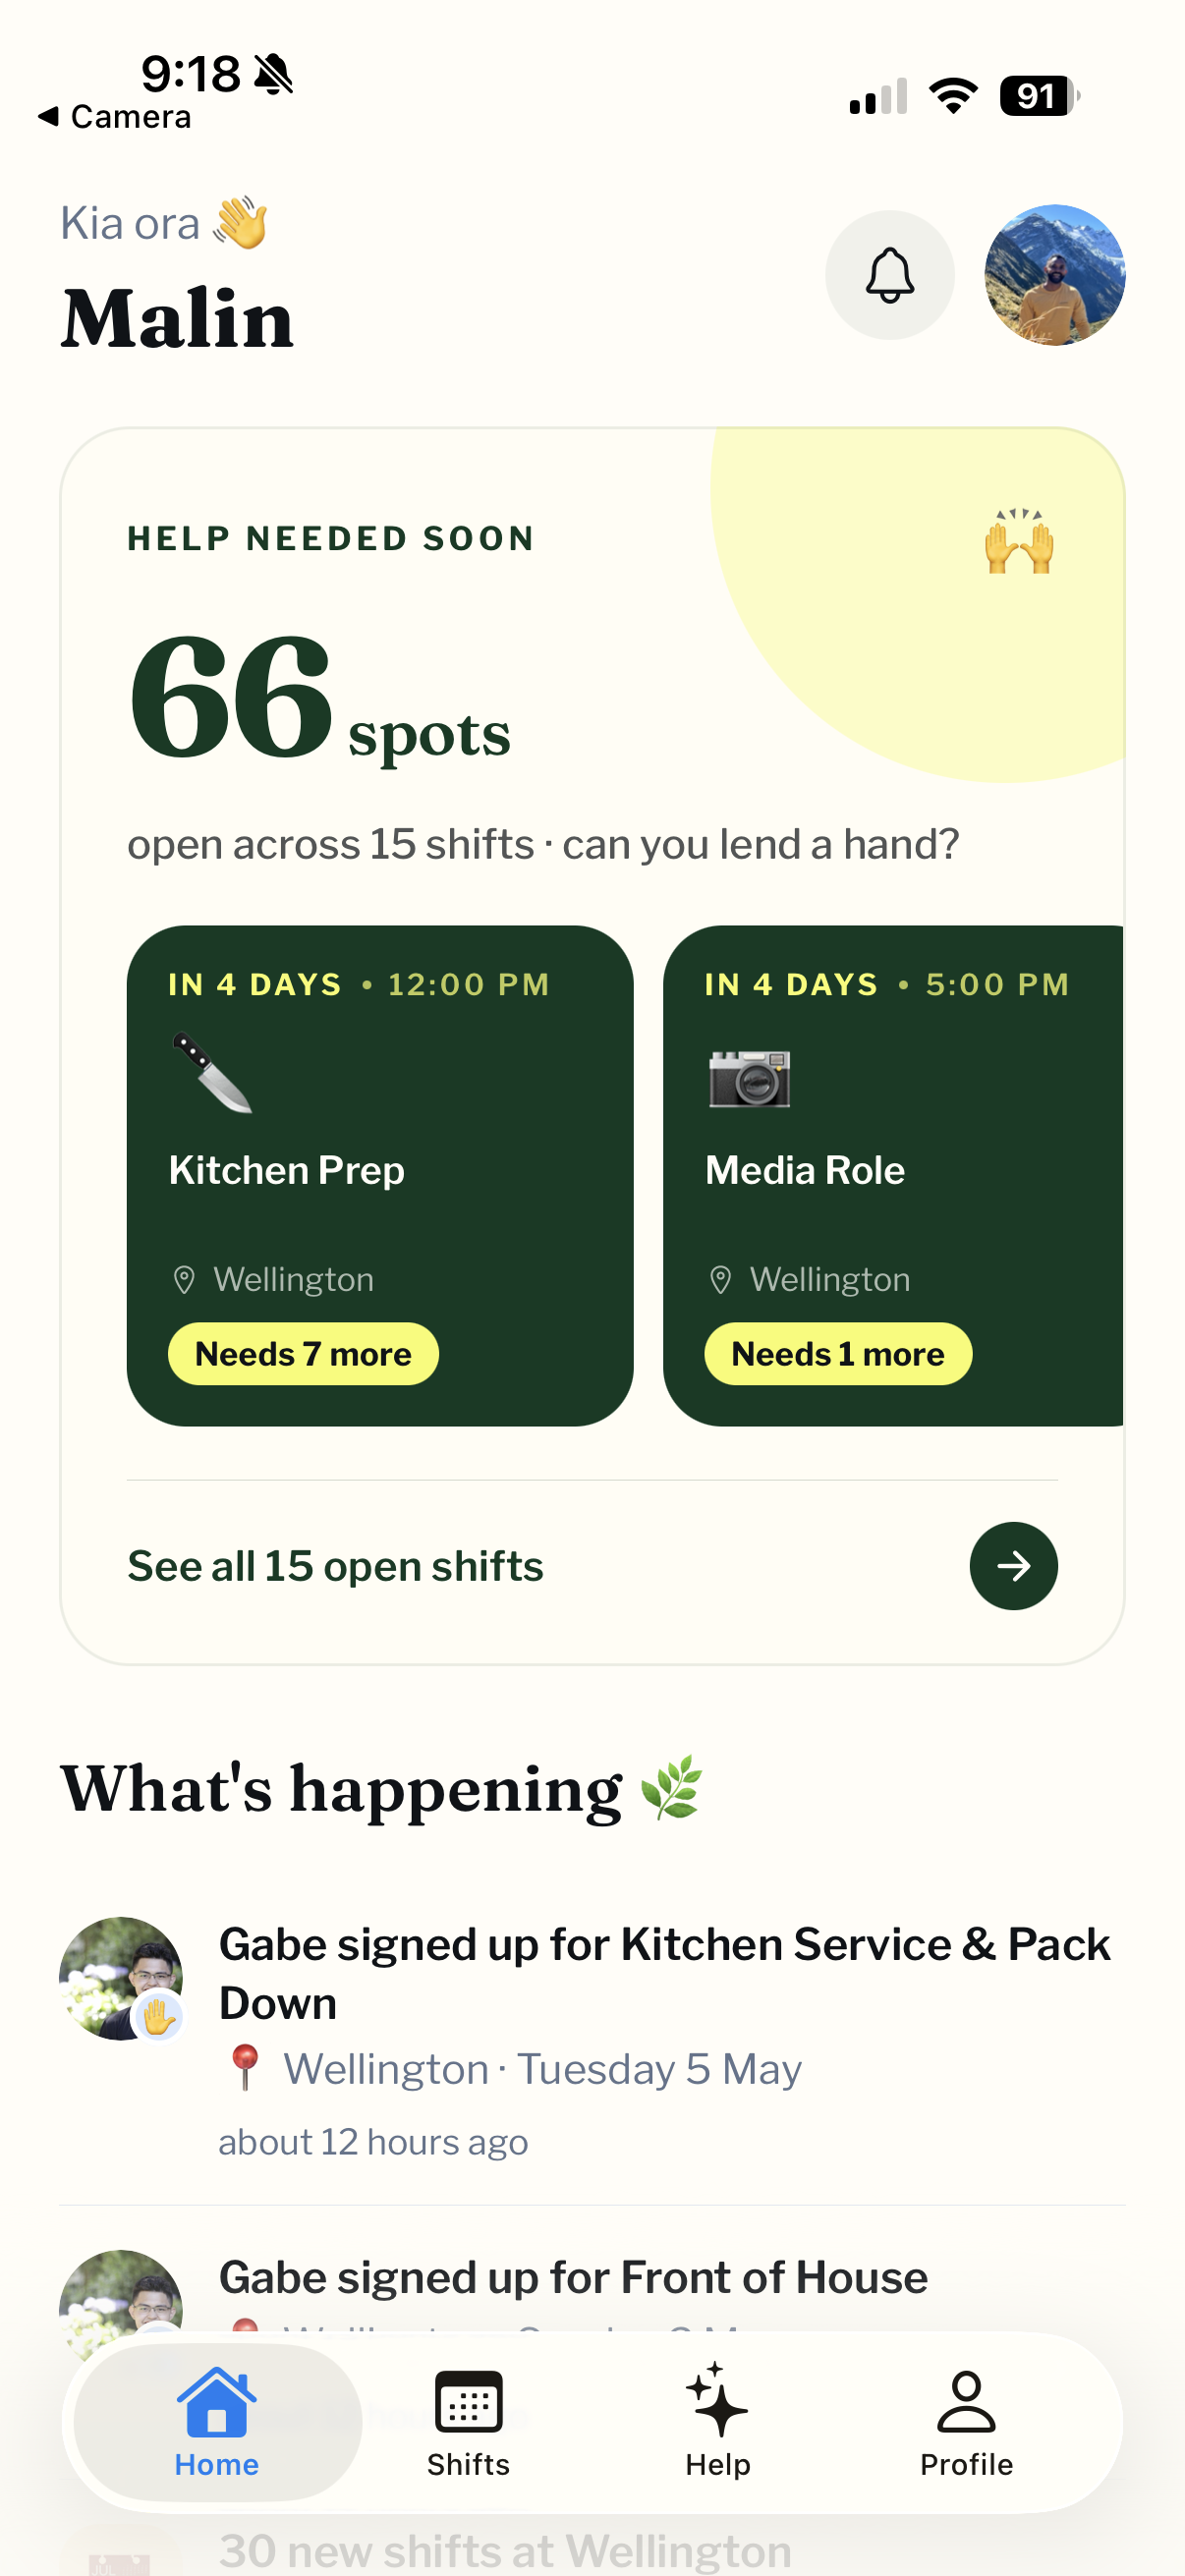
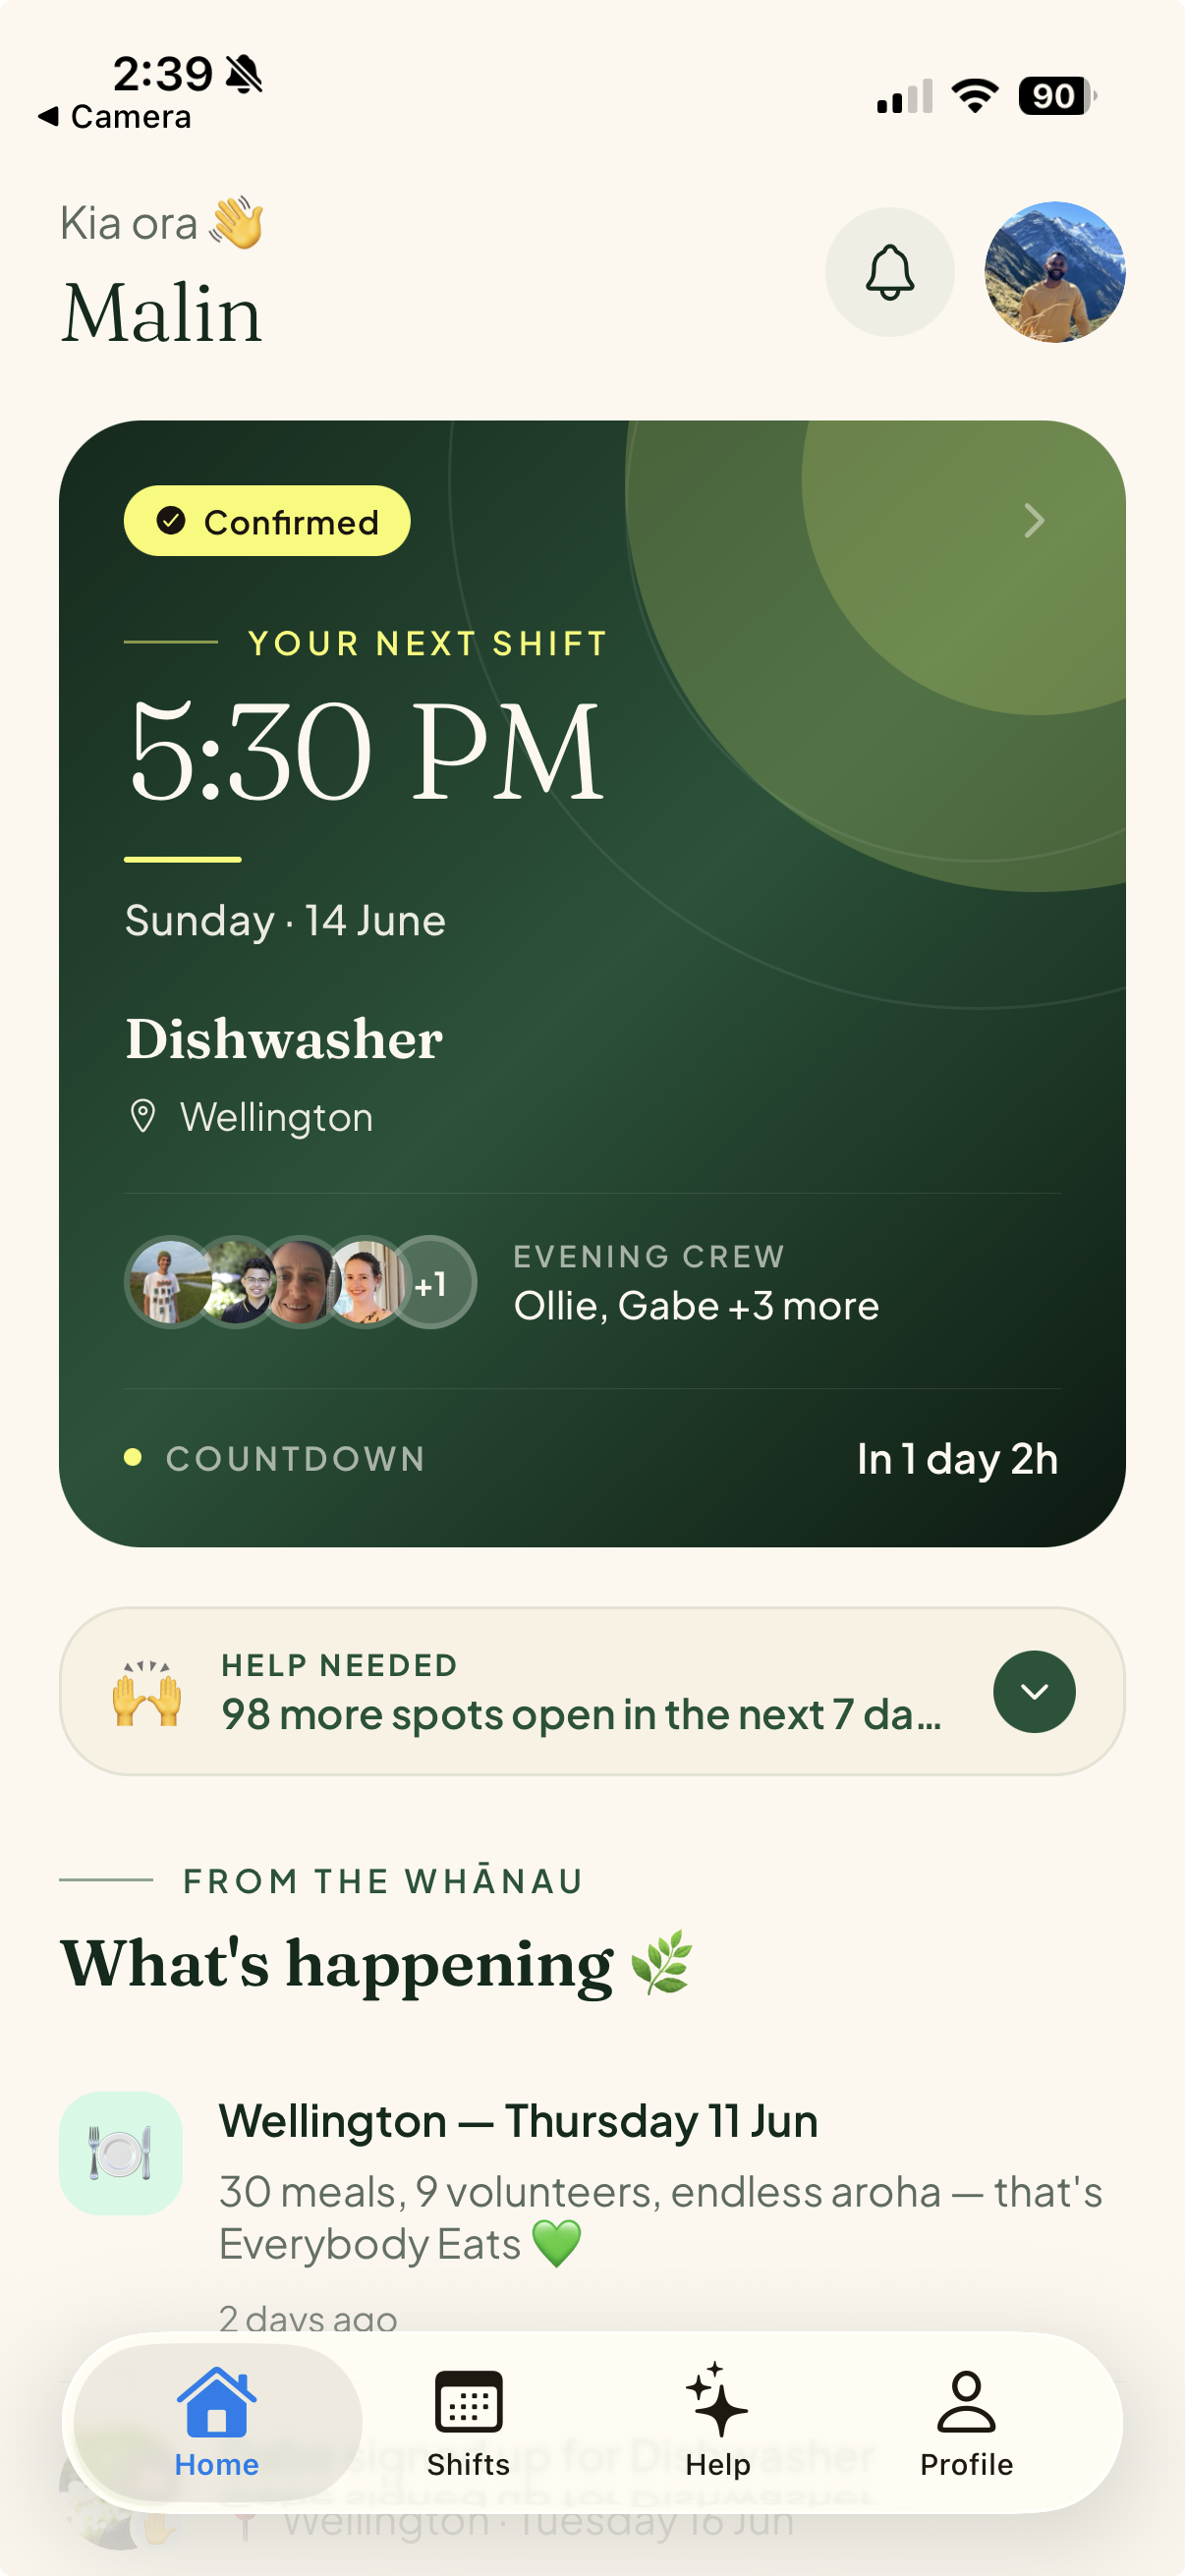
Update EE and Fair Food case-study stats and EE app screenshot
- Everybody Eats: weekly active users 1.2k → 1.5k
- Fair Food NZ: volunteers 300+ → 400+
- Replace Everybody Eats mobile app screenshot with the current home
  screen (next shift + "What's happening" feed) and refine its alt text

diff --git a/src/data/cases.ts b/src/data/cases.ts
@@ -27,7 +27,7 @@ export const CASES: CaseStudy[] = [
       "A booking system, volunteer roster, and donation flow built around their three-course pay-what-feels-right dining model — plus native iOS and Android apps for volunteers to pick up shifts on the move.",
     metrics: [
       { v: "9k+", l: "volunteers" },
-      { v: "1.2k", l: "weekly active users" },
+      { v: "1.5k", l: "weekly active users" },
       { v: "3+", l: "restaurants and pop-ups" },
     ],
     scheme: "warm",
@@ -39,7 +39,7 @@ export const CASES: CaseStudy[] = [
       "The volunteer site Everybody Eats had before the rebuild — a plain events list with little of their own identity",
     phoneImage: "screenshots/everybody-eats-app.png",
     phoneImageAlt:
-      "Everybody Eats volunteer app — open shifts and 'What's happening' feed",
+      "Everybody Eats volunteer app home screen — next confirmed shift, open spots needed, and the 'What's happening' feed",
   },
   {
     name: "Fair Food NZ",
@@ -47,7 +47,7 @@ export const CASES: CaseStudy[] = [
     blurb:
       "A volunteer site and shift booking system for the crew who sort, cook, and share rescued kai in Avondale every day — browse open shifts solo, or sign up a whole team at once.",
     metrics: [
-      { v: "300+", l: "volunteers" },
+      { v: "400+", l: "volunteers" },
       { v: "2,400 kg", l: "rescued kai a day" },
       { v: "Est. 2011", l: "feeding Avondale" },
     ],